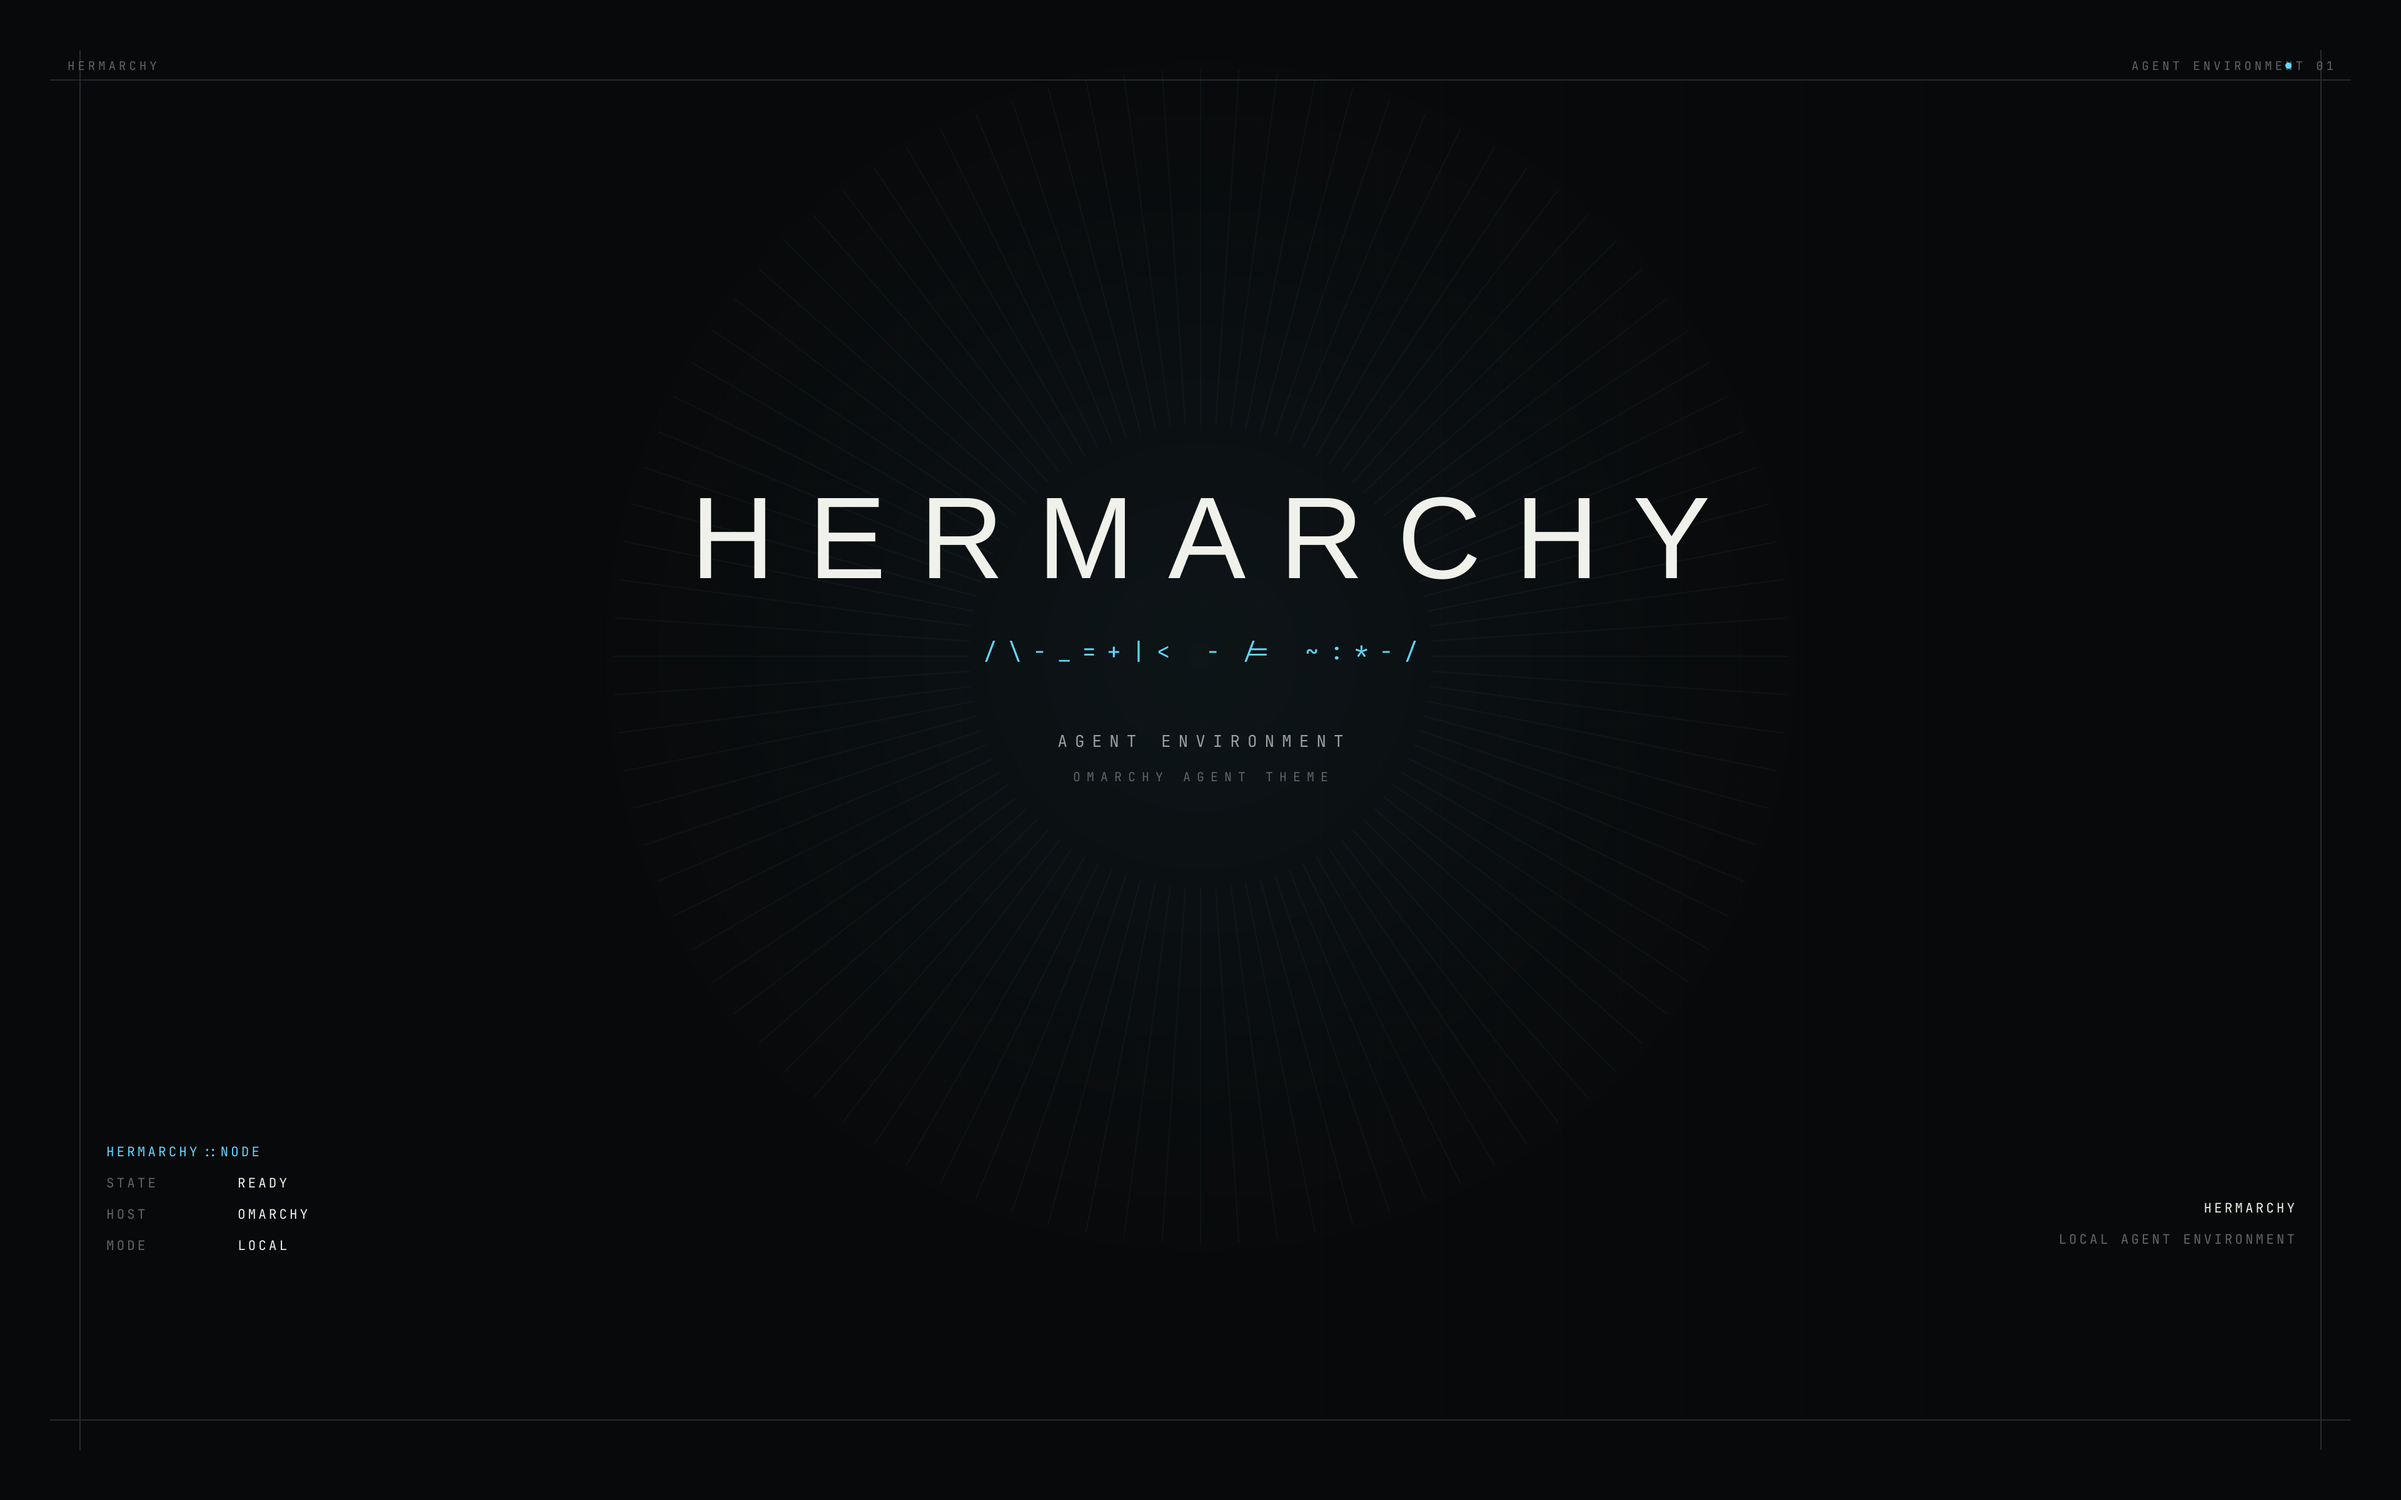
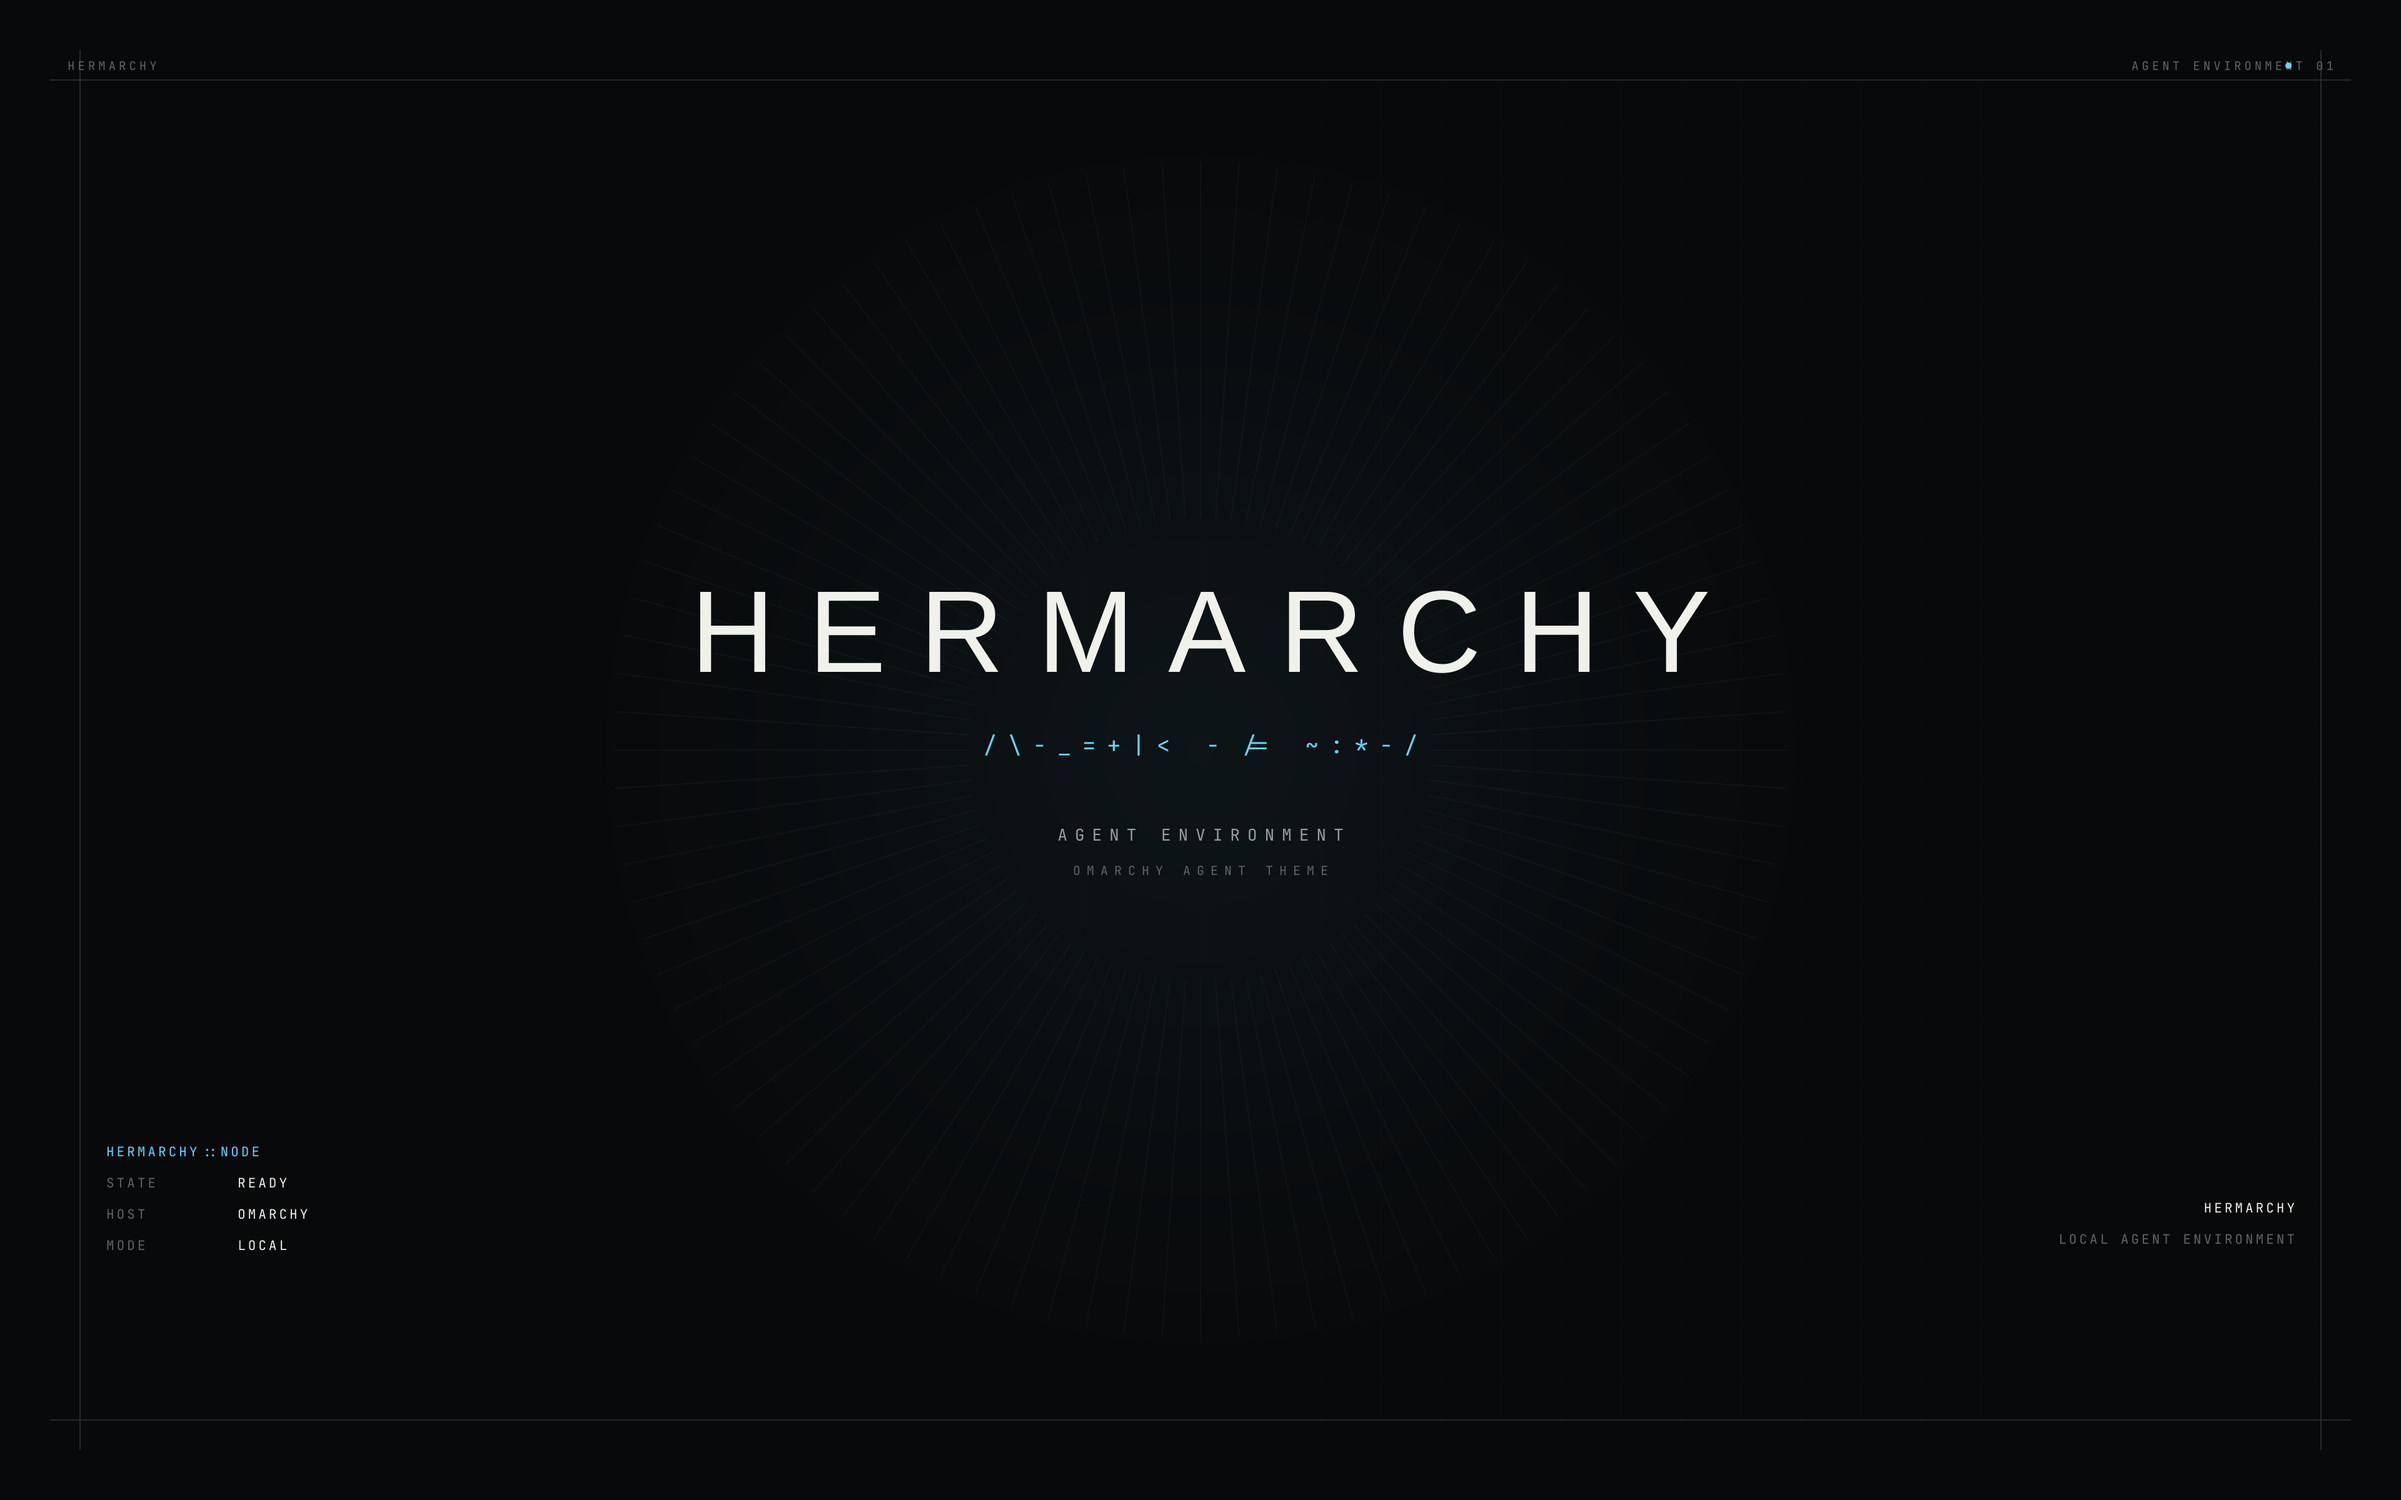
Center flagship wallpaper composition

Changed region(s): [[0.2812, 0.3125, 0.7188, 0.4688], [0.5938, 0.4375, 0.625, 0.4688], [0.5938, 0.3125, 0.625, 0.3438]]

diff --git a/scripts/build_assets.py b/scripts/build_assets.py
@@ -8,6 +8,8 @@ ROOT = Path(__file__).resolve().parents[1]
 SOURCE = ROOT / "assets/source"
 BACKGROUNDS = ROOT / "backgrounds"
 W, H = 3840, 2400
+FLAGSHIP_SOURCE_CENTER_Y = 1050
+FLAGSHIP_VERTICAL_SHIFT = H // 2 - FLAGSHIP_SOURCE_CENTER_Y
 SOURCE.mkdir(parents=True, exist_ok=True)
 BACKGROUNDS.mkdir(parents=True, exist_ok=True)
 
@@ -53,13 +55,15 @@ def wallpaper_one() -> str:
 </defs>
 {frame()}
 <rect x="128" y="128" width="3584" height="2144" fill="url(#grid)"/>
-<circle cx="1920" cy="1050" r="980" fill="url(#halo)"/>
-{lines(1920,1050,370,940,96,CYAN,.045)}
+<g transform="translate(0 {FLAGSHIP_VERTICAL_SHIFT})">
+<circle cx="1920" cy="{FLAGSHIP_SOURCE_CENTER_Y}" r="980" fill="url(#halo)"/>
+{lines(1920,FLAGSHIP_SOURCE_CENTER_Y,370,940,96,CYAN,.045)}
 <g text-anchor="middle">
  <text x="1920" y="925" fill="{WHITE}" font-family="IBM Plex Sans,Inter,DejaVu Sans,sans-serif" font-size="186" font-weight="500" letter-spacing="54">HERMARCHY</text>
  <text x="1920" y="1055" fill="{CYAN}" font-family="IBM Plex Mono,JetBrains Mono,DejaVu Sans Mono,monospace" font-size="36" letter-spacing="18">/\\-_=+|&lt; -/= ~:*-/</text>
  <text x="1920" y="1195" fill="{SECONDARY}" font-family="IBM Plex Mono,JetBrains Mono,DejaVu Sans Mono,monospace" font-size="26" letter-spacing="12">AGENT ENVIRONMENT</text>
  <text x="1920" y="1250" fill="{MUTED}" font-family="IBM Plex Mono,JetBrains Mono,DejaVu Sans Mono,monospace" font-size="20" letter-spacing="10">OMARCHY AGENT THEME</text>
+</g>
 </g>
 <g font-family="IBM Plex Mono,JetBrains Mono,DejaVu Sans Mono,monospace" font-size="21" letter-spacing="4">
  <text x="170" y="1850" fill="{CYAN}">HERMARCHY::NODE</text>
